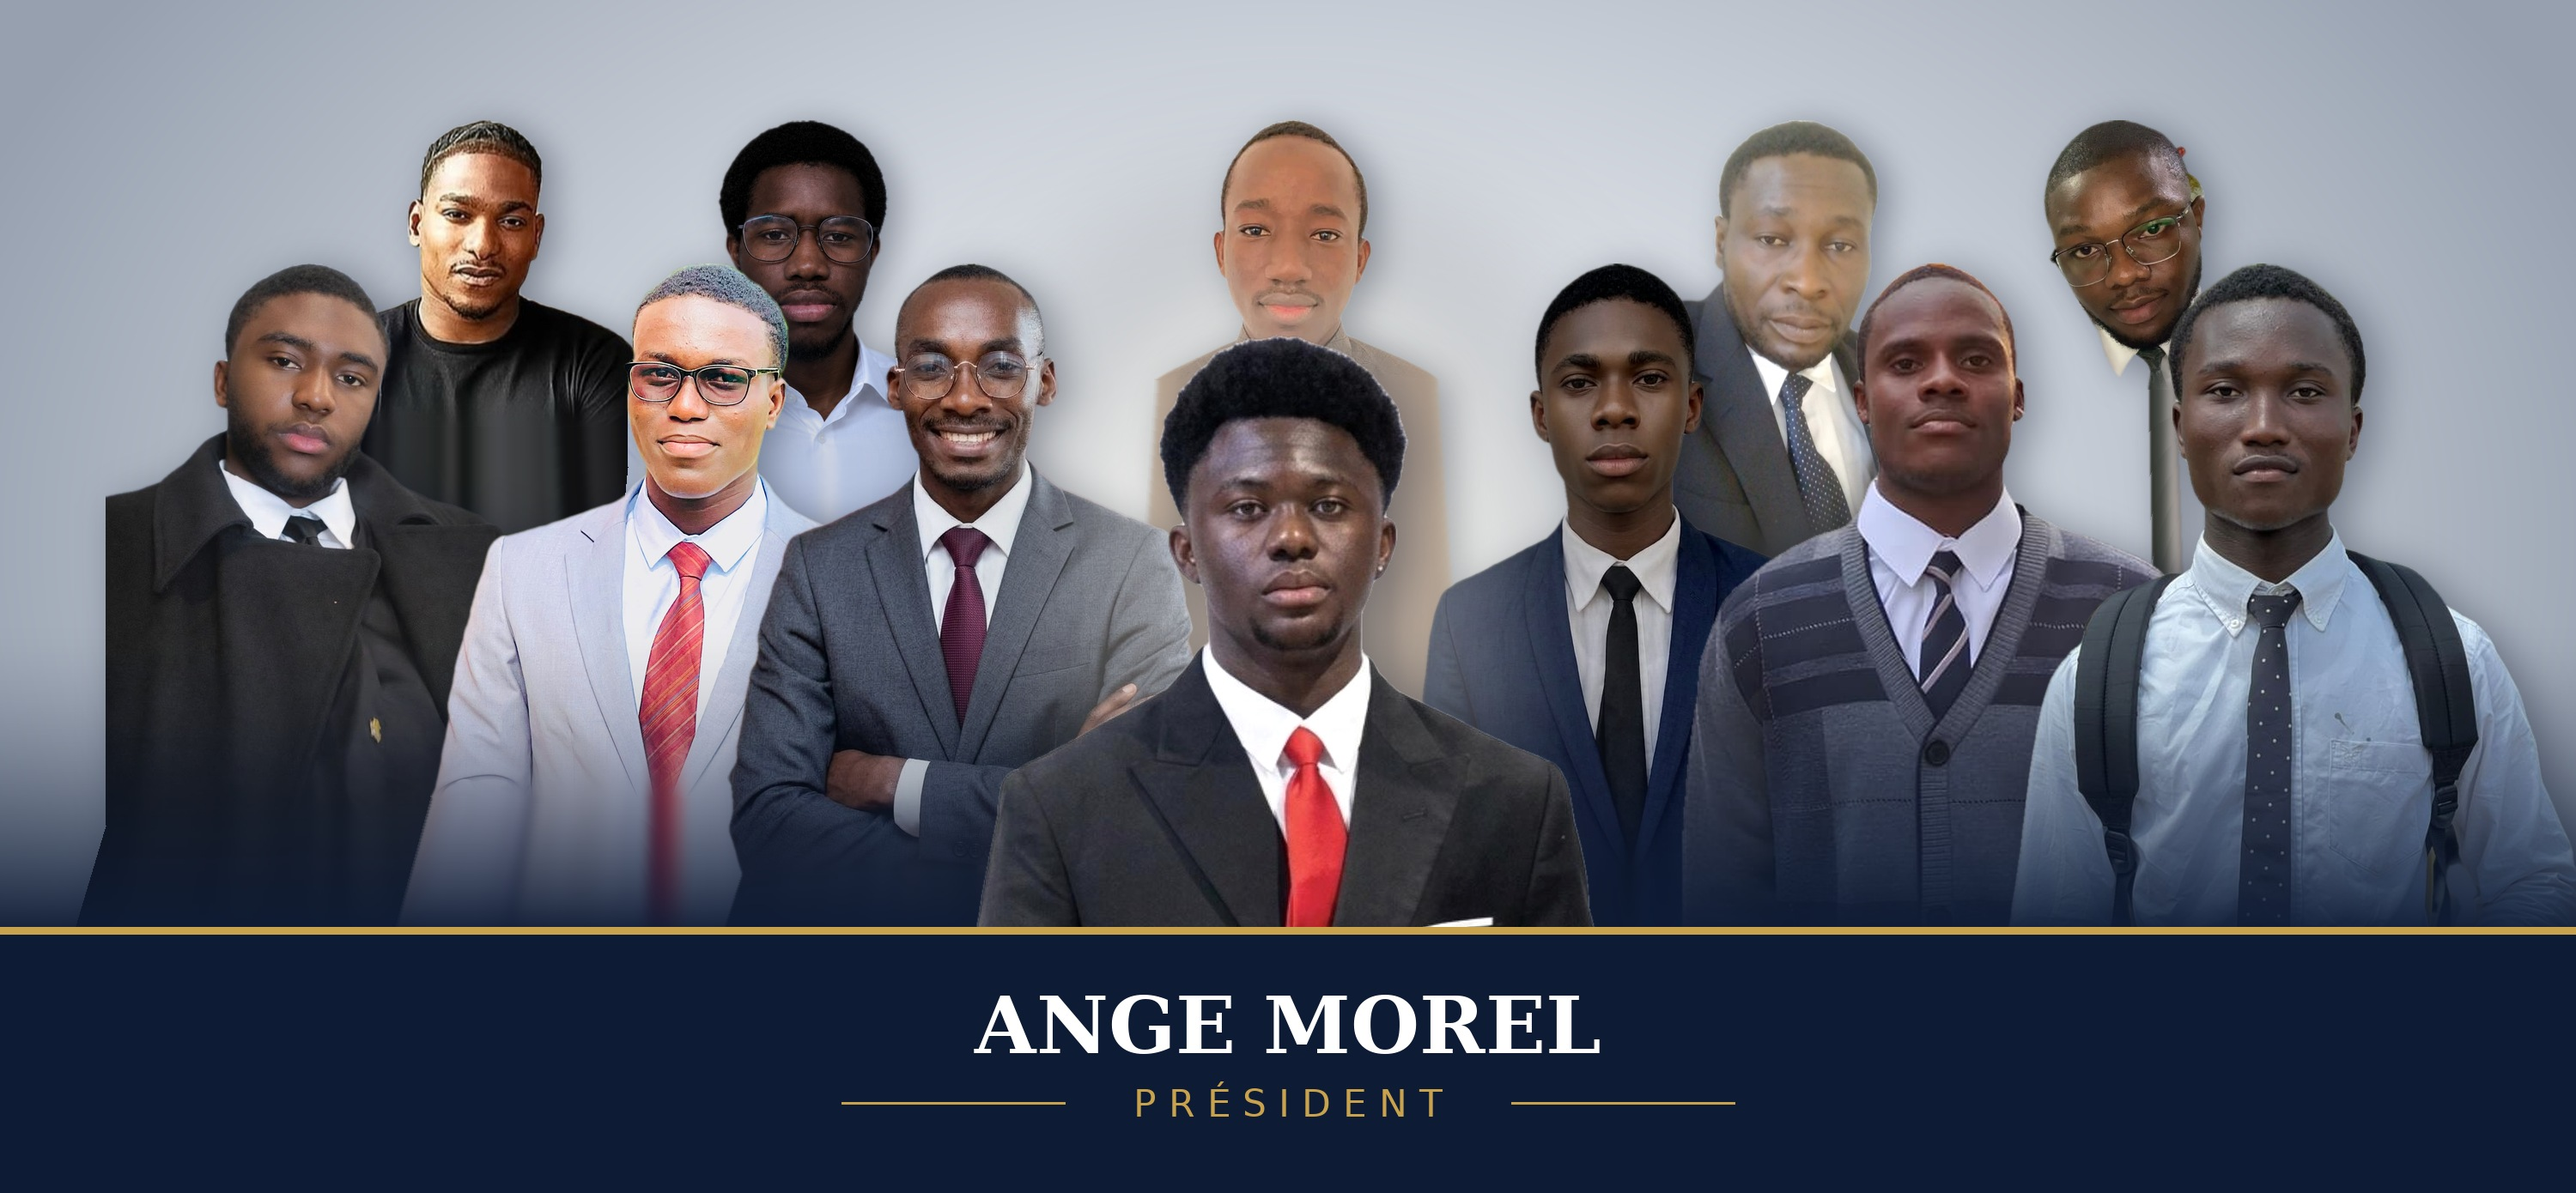
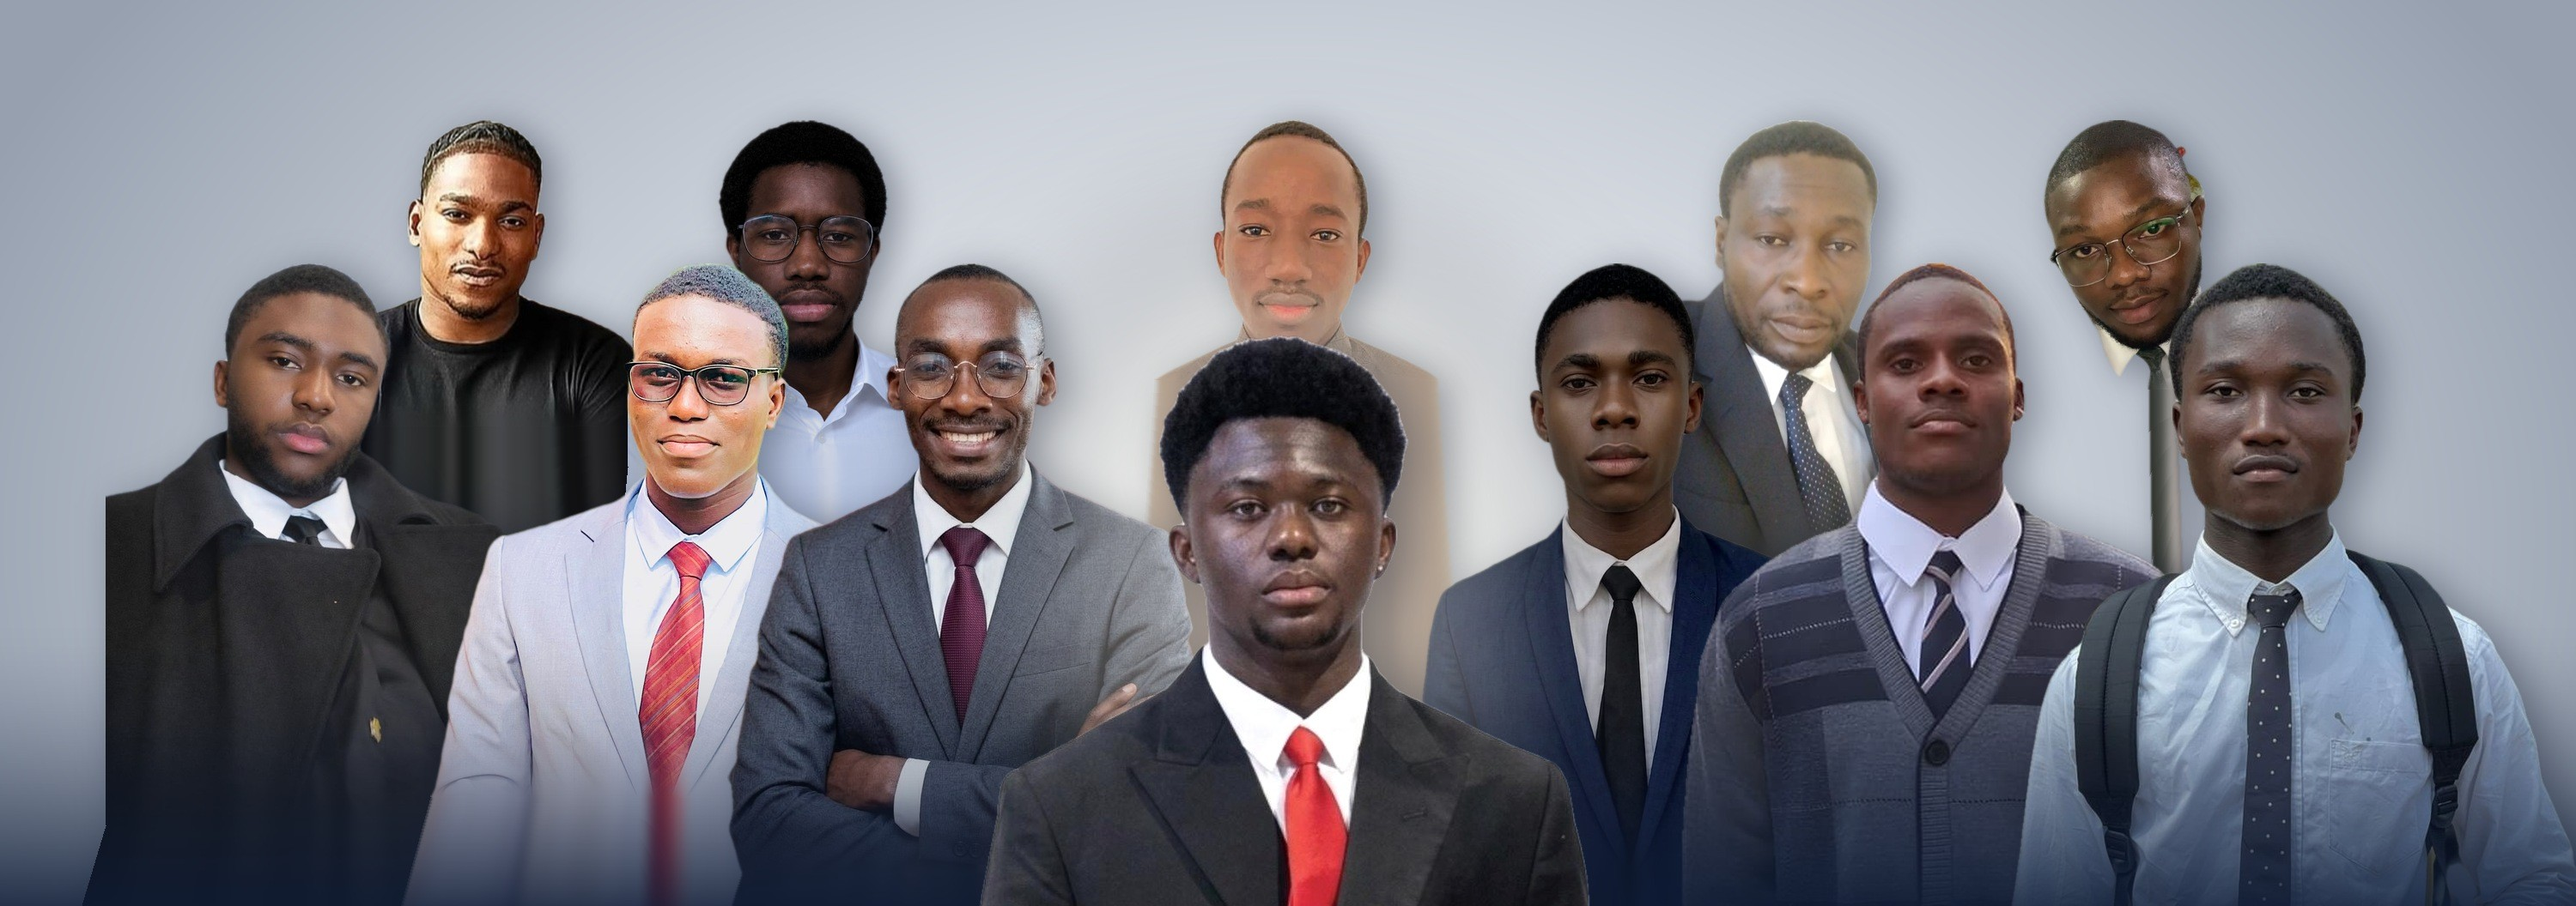
Ajoute la photo de groupe en fond de la bannière Gouvernance
Recadre l'image (suppression du bandeau "Ange Morel Président" en
bas) pour ne garder que la photo de groupe, et l'affiche en plein
cadre dans le hero de la page Gouvernance (comme sur les autres
pages). PageHero gagne une prop `imagePosition` ("top") pour garder
le haut de l'image visible plutôt que le centre.

Claude-Session: https://claude.ai/code/session_0195SQ28CXf6KPvNoEPcACyE

diff --git a/frontend/components/PageHero.tsx b/frontend/components/PageHero.tsx
@@ -6,11 +6,20 @@ type PageHeroProps = {
   description?: string;
   /** Path under /public, e.g. "/images/mouvement-hero.jpg". Omit for the plain gradient. */
   image?: string;
+  /** Vertical focal point for the full-bleed image's object-position. Defaults to "center". */
+  imagePosition?: "center" | "top";
   /** Path under /public to a subject-cutout PNG, shown large on the dark gradient instead of a full-bleed photo. */
   cutout?: string;
 };
 
-export default function PageHero({ eyebrow, title, description, image, cutout }: PageHeroProps) {
+export default function PageHero({
+  eyebrow,
+  title,
+  description,
+  image,
+  imagePosition = "center",
+  cutout,
+}: PageHeroProps) {
   return (
     <section
       className={`relative isolate overflow-hidden text-brand-cream ${
@@ -24,7 +33,14 @@ export default function PageHero({ eyebrow, title, description, image, cutout }:
       {image && (
         <>
           {/* eslint-disable-next-line @next/next/no-img-element */}
-          <img src={image} alt="" aria-hidden="true" className="absolute inset-0 -z-20 h-full w-full object-cover" />
+          <img
+            src={image}
+            alt=""
+            aria-hidden="true"
+            className={`absolute inset-0 -z-20 h-full w-full object-cover ${
+              imagePosition === "top" ? "object-top" : "object-center"
+            }`}
+          />
           <div className="absolute inset-0 -z-10 bg-gradient-to-r from-brand-brown-dark/95 via-brand-brown-dark/75 to-brand-brown-dark/40" />
           <div className="absolute inset-0 -z-10 bg-gradient-to-t from-brand-brown-dark/85 via-transparent to-transparent" />
         </>

diff --git a/frontend/app/[locale]/gouvernance/page.tsx b/frontend/app/[locale]/gouvernance/page.tsx
@@ -206,7 +206,13 @@ export default function GouvernancePage({ params }: { params: { locale: string }
 
   return (
     <>
-      <PageHero eyebrow={t.eyebrow} title={t.title} description={t.description} />
+      <PageHero
+        eyebrow={t.eyebrow}
+        title={t.title}
+        description={t.description}
+        image="/images/gouvernance-hero.jpg"
+        imagePosition="top"
+      />
 
       <section className="container-page py-20">
         <Reveal className="mx-auto max-w-sm">
